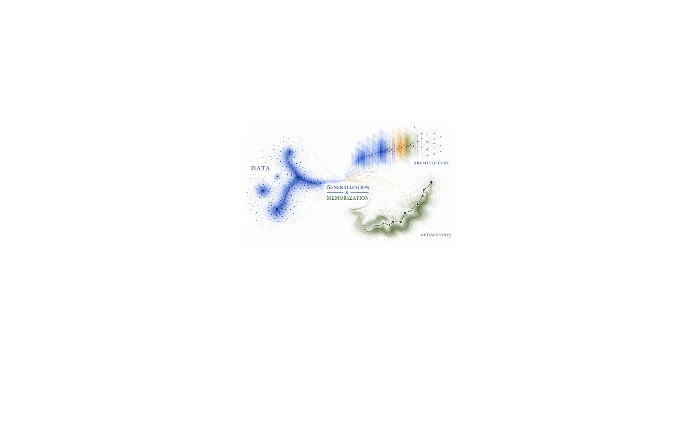
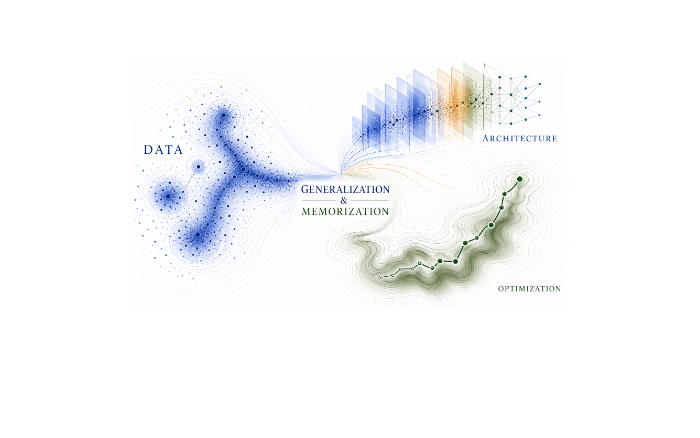
Fix Pages viewport cropping on slides 14 and 44

Changed region(s): [[0.21, 0.1484, 0.81, 0.6826], [0.72, 0.653, 0.81, 0.6826]]

diff --git a/colloquium-academic-v8-modular-rebuilt/13b-status-before-our-result.html b/colloquium-academic-v8-modular-rebuilt/13b-status-before-our-result.html
@@ -18,26 +18,26 @@
   <script defer src="shared/deck.js?v=20260421-deck-overview"></script>
   <style>
     .status-before-slide h2 {
-      margin-bottom: 0.42em;
+      margin-bottom: 0.34em;
     }
     .status-layout {
       display: grid;
-      grid-template-rows: minmax(0, 1.32fr) minmax(0, 0.88fr);
-      gap: 0.68em;
+      grid-template-rows: minmax(0, 1.24fr) minmax(0, 0.82fr);
+      gap: 0.56em;
       min-height: 0;
       flex: 1 1 auto;
     }
     .status-top {
       display: grid;
       grid-template-columns: minmax(0, 1.35fr) minmax(16em, 0.65fr);
-      gap: 0.72em;
+      gap: 0.62em;
       align-items: stretch;
       min-height: 0;
     }
     .status-bottom {
       display: grid;
       grid-template-columns: minmax(0, 0.8fr) minmax(0, 1.2fr) minmax(0, 0.85fr);
-      gap: 0.72em;
+      gap: 0.62em;
       align-items: stretch;
       min-height: 0;
     }
@@ -59,10 +59,10 @@
       box-sizing: border-box;
     }
     .status-top .paper-crop img {
-      height: min(52vh, 18em);
+      height: min(44vh, 15.4em);
     }
     .status-bottom .paper-crop img {
-      height: min(31vh, 11em);
+      height: min(22vh, 7.8em);
     }
     .paper-crop figcaption {
       font-family: 'IBM Plex Mono', monospace;
@@ -75,7 +75,7 @@
     .status-card {
       border-left: 3px solid var(--navy);
       background: #eaf2f8;
-      padding: 0.64em 0.78em 0.58em;
+      padding: 0.56em 0.68em 0.5em;
       border-radius: 8px;
       min-width: 0;
       display: flex;
@@ -92,20 +92,77 @@
     }
     .status-card .label {
       font-family: 'IBM Plex Mono', monospace;
-      font-size: 0.36em;
+      font-size: 0.34em;
       letter-spacing: 0.18em;
       text-transform: uppercase;
       color: var(--ink-muted);
-      margin-bottom: 0.5em;
+      margin-bottom: 0.44em;
     }
     .status-card p {
       margin: 0;
-      font-size: 0.63em;
-      line-height: 1.35;
+      font-size: 0.59em;
+      line-height: 1.3;
       color: var(--ink);
     }
     .status-card strong {
       color: var(--navy);
+    }
+    @media (max-height: 760px) {
+      .status-before-slide h2 {
+        margin-bottom: 0.28em;
+      }
+      .status-layout {
+        grid-template-rows: minmax(0, 1.14fr) minmax(0, 0.76fr);
+        gap: 0.46em;
+      }
+      .status-top,
+      .status-bottom {
+        gap: 0.5em;
+      }
+      .status-top .paper-crop img {
+        height: min(39vh, 13.4em);
+      }
+      .status-bottom .paper-crop img {
+        height: min(17vh, 6.2em);
+      }
+      .paper-crop figcaption {
+        font-size: 0.31em;
+      }
+      .status-card {
+        padding: 0.46em 0.56em 0.42em;
+      }
+      .status-card .label {
+        font-size: 0.31em;
+        margin-bottom: 0.36em;
+      }
+      .status-card p {
+        font-size: 0.54em;
+        line-height: 1.26;
+      }
+    }
+    @media (max-height: 700px) {
+      .status-before-slide h2 {
+        font-size: 1.42em;
+      }
+      .status-layout {
+        gap: 0.4em;
+      }
+      .status-top,
+      .status-bottom {
+        gap: 0.42em;
+      }
+      .status-top .paper-crop img {
+        height: min(36vh, 12.2em);
+      }
+      .status-bottom .paper-crop img {
+        height: min(15vh, 5.3em);
+      }
+      .paper-crop figcaption {
+        font-size: 0.29em;
+      }
+      .status-card p {
+        font-size: 0.5em;
+      }
     }
   </style>
 </head>

diff --git a/colloquium-academic-v8-modular-rebuilt/43-three-axes-we-ve-barely-touched.html b/colloquium-academic-v8-modular-rebuilt/43-three-axes-we-ve-barely-touched.html
@@ -31,7 +31,7 @@
 <section aria-label="Wide white-background outlook illustration with DATA, ARCHITECTURE, and OPTIMIZATION around a center label reading GENERALIZATION and MEMORIZATION." class="outlook-visual-slide" role="img">
 <style>
   .outlook-visual-slide {
-    padding: 0 !important;
+    padding: 0.25rem 0.45rem !important;
     display: flex !important;
     justify-content: center !important;
     align-items: center !important;
@@ -40,10 +40,8 @@
 
   .outlook-map-figure {
     margin: 0;
-    width: min(92vw, 82rem);
-    height: min(78vh, 44rem);
-    transform: translateY(-0.2rem) scale(1.32);
-    transform-origin: center center;
+    width: min(100%, 84rem);
+    height: min(100%, 46rem);
   }
 
   .outlook-map-figure img {
@@ -53,18 +51,13 @@
     max-height: none !important;
     display: block;
     object-fit: contain;
-    object-position: center 44%;
+    object-position: center center;
   }
 
-  @media (max-width: 1200px) {
+  @media (max-width: 1200px), (max-height: 780px) {
     .outlook-map-figure {
-      width: 96vw;
-      height: min(74vh, 38rem);
-      transform: translateY(-0.1rem) scale(1.18);
-    }
-
-    .outlook-map-figure img {
-      object-position: center 42%;
+      width: min(100%, 78rem);
+      height: min(100%, 40rem);
     }
   }
 </style>
